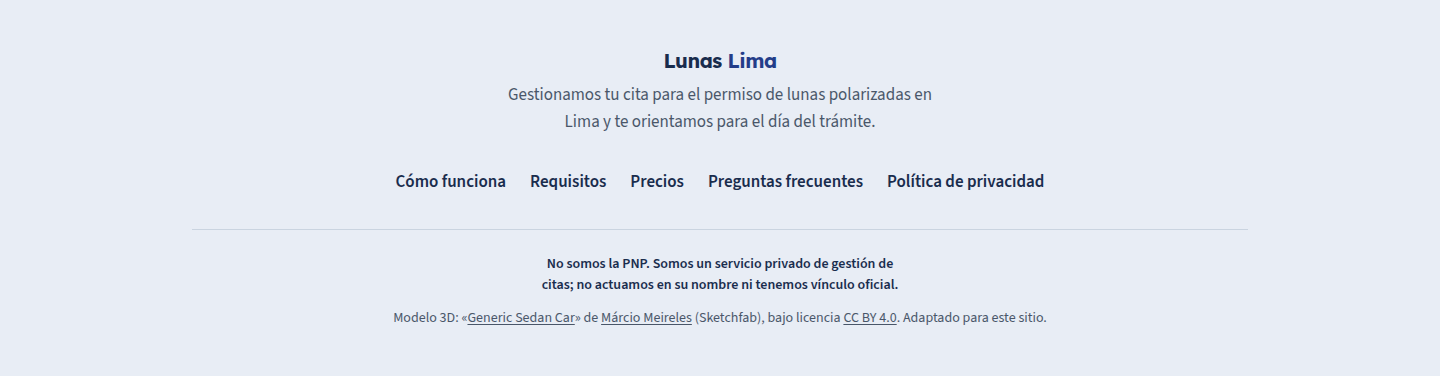
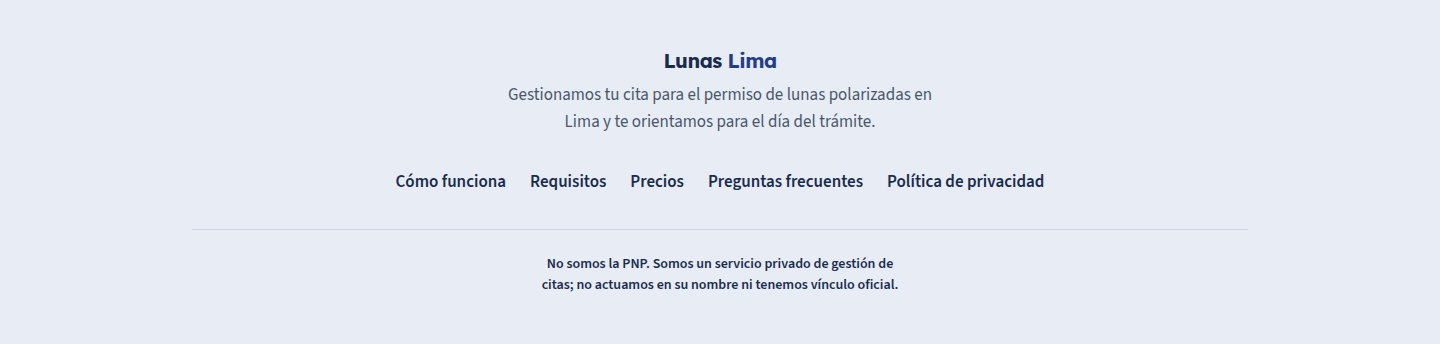
Cierre del rediseño: archiva el hero 3D, quita su crédito del footer y pone CLAUDE.md al día
El modelo 3D no se usa en ninguna página. Hero3D.astro, car-viewer.ts, auto.glb,
draco/ y auto-fallback.webp pasan a archive/ (fuera de src/ y public/, excluido de
astro check); dist/ baja de 9,7 a 7,2 MB. Las mejoras 3 y 13 quedan descartadas.

diff --git a/CLAUDE.md b/CLAUDE.md
@@ -27,46 +27,26 @@
   hoy `#128c7e`) solo en el botón flotante.
 
 ## Secciones
-Navbar → Hero con auto 3D (oscurecido automático al cargar + slider Claras↔Oscuras)
+Navbar → Hero con video del auto (texto sobre panel marino semitransparente)
 → Por tu cuenta o con nosotros (comparativa) → Cómo funciona (3 pasos + mockup de
 conversación de ejemplo) → Requisitos → Precios → FAQ → CTA final (banda showroom).
-Footer (centrado desde md) con aviso "No somos la PNP", crédito del modelo 3D y enlace
-a /privacidad.
+Footer (centrado desde md) con aviso "No somos la PNP" y enlace a /privacidad.
 
 ## Stack y archivos clave
-- Astro + Tailwind + Motion (vanilla JS) + Three.js. Sitio estático.
+- Astro + Tailwind + Motion (vanilla JS). Sitio estático.
 - src/config.ts: número de WhatsApp y mensaje predeterminado. Todos los CTA lo usan.
 - src/components/Navbar.astro: header fijo (logo de texto «Lunas Lima», enlaces a
   #como-funciona, #requisitos, #precios y #faq, botón de WhatsApp y menú móvil).
   Se monta en Layout.astro. Navbar y hero usan `.container-wide` (100rem, gutter de 4rem
   desde 1440px); la columna de texto del hero se alinea con el logo y deja 3rem antes del panel.
-- OJO: el hero que se monta hoy (src/components/Hero.astro) es un panel con VIDEO
-  (`[data-car-video]`, archivos en public/hero/) y texto sobre un panel marino
-  semitransparente. Por debajo de lg mide lo que su contenido (sin alto mínimo) y termina en
-  la línea de precio y aviso; la tarjeta «Llega preparado al trámite» solo existe desde lg,
-  flotando abajo a la derecha. Lo que sigue sobre el auto 3D, el slider y car-viewer.ts
-  describe Hero3D.astro, que ya no se monta (tampoco HeroVideoPanel.astro); está pendiente
-  de reescribir.
-- src/components/Hero3D.astro + src/scripts/car-viewer.ts: hero y visor 3D (no montado).
-  Alto: 100svh en móvil; desde lg tiene tope, `clamp(40rem, 100svh, 54rem)`, para que en
-  pantallas altas asome la sección siguiente. Escritorio: texto ~42 % claro / panel showroom ~54 % (degradado
-  --color-primary → --color-primary-deep con luz cenital) a sangre por la derecha y por
-  abajo, debajo del navbar; la tarjeta del slider flota abajo a la derecha del panel.
-  Móvil: panel con el auto arriba, tarjeta montada sobre su borde y texto debajo.
-  El auto hace un vaivén de ±20° (no gira 360°) y se puede arrastrar; la pista
-  «Arrastra para girar» se quita con la primera interacción.
-- Carga del 3D: el póster (auto-fallback.webp) aparece a los 800 ms si el 3D aún no está.
-  Si el 3D llega antes de que el póster se vea, entrada completa (desplazamiento del auto
-  y luego oscurecido de lunas, 2 s). Si el póster ya se ve, cruce de 0,3 s a 3D en la
-  misma pose y con las lunas ya oscuras. Con movimiento reducido, sin JS o sin WebGL
-  queda solo el póster.
-- public/auto-fallback.webp es cuadrada (1200×1200), con fondo transparente, y se genera
-  desde el propio visor (pose central, lunas oscuras): debe coincidir con el primer frame
-  del 3D. Regenerarla si cambia el encuadre, la luz, el piso o los materiales.
-- Visor: luz cenital + entorno atenuado (sin luces frontales ni rasantes: blanquean las
-  lunas), pintura plateada metálica, charco de luz y reflejo espejado del auto en el piso.
-- Lunas tintadas: dieléctrico (metalness 0) con envMap propio casi apagado. Ojo:
-  `envMapIntensity` no afecta al entorno de la escena, solo al envMap del material.
+- src/components/Hero.astro: hero con video del auto (`[data-car-video]`, archivos en
+  public/hero/, póster .webp) y texto sobre un panel marino semitransparente. Por debajo
+  de lg mide lo que su contenido (sin alto mínimo) y termina en la línea de precio y aviso;
+  la tarjeta «Llega preparado al trámite» solo existe desde lg, flotando abajo a la derecha.
+  HeroVideoPanel.astro es una variante que no se monta.
+- archive/: el hero anterior con auto 3D (Hero3D.astro, car-viewer.ts, auto.glb, draco/ y
+  auto-fallback.webp). No se publica ni lo revisa `astro check`; ver archive/README.md
+  (cómo restaurarlo y el crédito CC BY que exige el modelo si vuelve a publicarse).
 - Componentes compartidos (ver DESIGN.md): Section.astro (fondo `tone`, padding,
   contenedor; `flush` solo para el hero), SectionHeader.astro (antetítulo + título +
   bajada), Button.astro (`variant`, `size`, `whatsapp`) e Icon.astro (íconos de línea;
@@ -112,14 +92,6 @@ a /privacidad.
   pantalla ni el hero (`main [data-hero]`), ni un `main [data-wa-cta]` (`<Button whatsapp>`
   ya pone ese atributo), ni una sección con `data-wa-float-hide` (Precios). Sin JS no se
   muestra: queda el botón del navbar.
-- public/auto.glb (Draco), decoders en public/draco/, fallback en public/auto-fallback.webp.
-- Modelo 3D: solo se oscurece el material "Glass_ext-tinted" (lunas laterales y
-  posterior). "Glass_ext" es el parabrisas y queda claro. No tocar faros (Glass_-_Clear*,
-  Glass_-_Red*).
-- Carrocería: plateado claro (#c9ced6), aplicado por código en car-viewer.ts sobre el
-  material "Car_Paint_-_All_Colors" (se quita su textura de color; el .glb no cambia).
-  Si cambia el color, regenerar public/auto-fallback.webp.
-- Crédito: «Generic Sedan Car» de Márcio Meireles (Sketchfab), CC BY 4.0.
 - auto-original.glb y videos-originales/ (videos de stock sin optimizar) están en
   .gitignore; nunca subirlos.
 
@@ -135,13 +107,11 @@ a /privacidad.
   etiqueta v1-antes-rediseno, RESUMEN.md y capturar.js (se ejecuta con el MCP de
   Playwright). Al medir o capturar: quitar la barra de scroll (`scrollbar-width: none`,
   resta 15px de ancho) y usar scroll instantáneo (la página tiene `scroll-behavior: smooth`).
-- Pendiente del rediseño: quitar peso al botón «Ver requisitos» del hero (hace falta una
-  variante de contorno claro; `secondary` no cumple contraste sobre el panel).
 - Antes de cambios grandes, presenta un plan y espera aprobación.
 - Después de cada cambio visual, usa Playwright para abrir http://localhost:4321,
   capturar en 375px, 768px y 1440px, revisar y corregir antes de dar la tarea por terminada.
 - Ojo con las capturas: los revisores pueden dejar el navegador de Playwright con
-  movimiento reducido emulado (sin 3D ni slider); restablecerlo antes de capturar.
+  movimiento reducido emulado (el hero queda con el póster, sin video); restablecerlo antes de capturar.
 - Verificación visual: máximo 2 rondas de capturas por tarea. Si algo sigue mal,
   detente y explícame el problema.
 - Ejecuta `npx astro check` y `npm run build` al terminar; no entregues con errores.

diff --git a/docs/comparativa/RESUMEN.md b/docs/comparativa/RESUMEN.md
@@ -77,12 +77,12 @@ No se tocó `src/config.ts`: el número es el mismo y todos los mensajes pasan p
 S/ 71.40, plazo, medios de pago, solo Lima, no reprogramación) aparecen con los mismos
 valores.
 
-## Lo que no se hizo o no salió
+## Lo que se descartó
 
 | N.º | Propuesta | Estado | Motivo |
 |---|---|---|---|
-| 3 | Quitar peso al botón «Ver requisitos» del hero | Pendiente | Ninguna variante existente de `Button` sirve: `secondary` es marino sobre el panel marino (≈ 2,1:1 en el mejor caso; AA pide 4,5:1). Haría falta una variante de contorno claro en `DESIGN.md`. |
-| 13 | Área táctil de 44 px en los enlaces del crédito del footer | Aplicada y revertida (`a98df5c`, `5fb45ce`) | Van dentro de texto corrido: el padding abría huecos de 24 px entre líneas en móvil (hallazgo importante de `revisor-ui`) y un área invisible solaparía los toques de líneas contiguas. Para lograrlo habría que reescribir el crédito en líneas separadas. |
+| 3 | Quitar peso al botón «Ver requisitos» del hero | Descartada | Ninguna variante existente de `Button` sirve: `secondary` es marino sobre el panel marino (≈ 2,1:1 en el mejor caso; AA pide 4,5:1). Haría falta una variante de contorno claro en `DESIGN.md`. |
+| 13 | Área táctil de 44 px en los enlaces del crédito del footer | Descartada: aplicada y revertida (`a98df5c`, `5fb45ce`) | Van dentro de texto corrido: el padding abría huecos de 24 px entre líneas en móvil (hallazgo importante de `revisor-ui`) y un área invisible solaparía los toques de líneas contiguas. El crédito se retiró después del footer, al archivar el modelo 3D. |
 | 5 | Mover el encuadre del video en 1440 | Descartada | Riesgo de descuadrar un video ya renderizado; el auto se ve entero en móvil y tablet. |
 | 11 | Reducir los avisos «No somos la PNP» | Descartada | Es la protección legal del servicio. |
 | 12 | Página `/privacidad` | Fuera de este rediseño | La hará el dueño con sus datos. **Sigue dando 404** desde el footer y la FAQ. |
@@ -110,13 +110,16 @@ No se verificó: la página sin JavaScript en un navegador real, un lector de pa
 ni el contraste de la línea de precio sobre fotogramas concretos del video (el peor caso
 teórico, blanco puro detrás del panel, da 5,26:1).
 
-## Pendientes ajenos al rediseño
+## Cierre
 
-- `CLAUDE.md` decía que el verde de WhatsApp es `#25D366`; el token real
-  (`--color-whatsapp`) vale `#128c7e`.
-- El footer acredita el modelo 3D de Sketchfab, pero el hero muestra hoy un video.
-  Confirmar si el crédito sigue correspondiendo.
-- `Hero3D.astro` y `HeroVideoPanel.astro` no se montan y conservan la etiqueta antigua.
+- El modelo 3D no se usa en ninguna página (el hero es un video de stock). El hero 3D, su
+  visor y sus recursos pasaron a `archive/`, dejan de publicarse (`dist/` baja de 9,7 a
+  7,2 MB) y el crédito del modelo salió del footer; queda en `archive/README.md`.
+- Las capturas `despues/footer-*.png` ya son sin el crédito. Los altos de página de la tabla
+  se midieron antes de quitarlo: el footer es ahora unos 60 px más bajo en móvil.
+- `CLAUDE.md` describe ya el hero con video y el verde real de WhatsApp (`#128c7e`).
+- `HeroVideoPanel.astro` sigue en `src/components/` sin montarse y con la etiqueta antigua.
+- `DESIGN.md` aún menciona el slider y el «panel showroom con el auto» del hero 3D.
 
 ## Cómo medir la conversión real
 

diff --git a/archive/README.md b/archive/README.md
@@ -1,0 +1,20 @@
+# archive/
+
+Código y recursos que ya no se montan en ninguna página. Se conservan por si se retoman;
+nada de aquí se publica (queda fuera de `src/` y de `public/`) ni lo revisa `astro check`.
+
+## Hero con auto 3D
+
+- `src/components/Hero3D.astro` y `src/scripts/car-viewer.ts`: hero con visor Three.js
+  (oscurecido de lunas al cargar y slider Claras ↔ Oscuras).
+- `public/auto.glb` (Draco), `public/draco/` (decoders) y `public/auto-fallback.webp` (póster).
+
+Lo reemplazó el hero con video (`src/components/Hero.astro`).
+
+Para restaurarlo: devolver cada archivo a su ruta original (la misma, sin `archive/`) y
+montar `Hero3D` en `src/pages/index.astro`. Las dependencias `three` y `@types/three`
+siguen en `package.json`.
+
+**Licencia:** el modelo es «Generic Sedan Car» de Márcio Meireles (Sketchfab), CC BY 4.0
+(https://sketchfab.com/3d-models/generic-sedan-car-58c33766470d46e7b2aed542650494e5).
+Si vuelve a publicarse, el crédito debe volver al footer.
